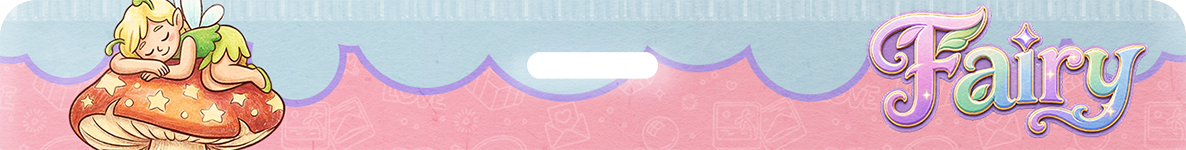
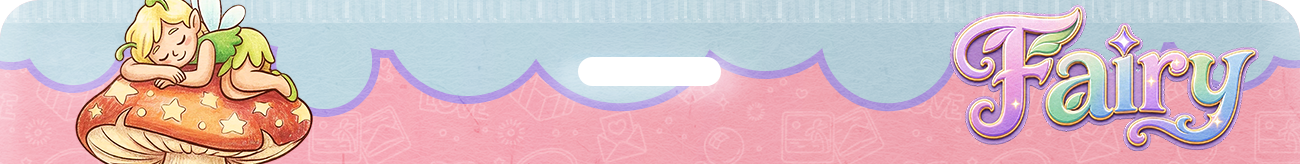
更新卡包包头

diff --git a/Documents/CURRENT_TASK.md b/Documents/CURRENT_TASK.md
@@ -1,49 +1,37 @@
 # 当前任务
 
-- 任务：修复多关卡默认描边断裂
+- 任务：批量替换 CardBag 游戏内包头
 - 状态：已完成
 - 更新时间：2026-08-08
 
 ## 用户意图
 
-- 修复当前组外边界与已完成组接触边在交汇处断裂的问题。
-- 问题存在于多个关卡，应修复通用烘焙算法并批量更新蒙版，而不是单独修改某一关。
+- 将 `美术切图/游戏内包头/PackTitleXXX.png` 复制到编号对应的 `Assets/UI/CardBags/CardBagXXX`。
+- 删除并替换原有 `BoardTitle.png`，新图片统一使用 `BoardTitle.png` 文件名。
 
 ## 工作记录
 
-- 截图对应 `CardBag008/Group02.png`，断点位于已完成组接触边与当前组最终外边界的交汇处。
-- 移除了交汇双方各自 `24px` 的双向裁剪，以及跨分组删除已认领描边像素的逻辑。
-- 当前组外边界继续使用距离和局部法线方向过滤；相邻组允许在真实交点共享少量外边界像素。
-- 增加交汇端点桥接：只沿最终外边界与已完成区域边界组成的走廊寻找真实路径，最大路径 `64px`，走廊容差 `8px`，不使用跨空白直线。
-- 通过当前 Unity 编辑器全量重烘焙 22 个 CardBag Prefab，生成 96 个有效分组；其中 87 张默认 `GroupNN.png` 发生变化。
-- `CardBag020` 和 `CardBag022` 仍因 Piece 尚未正式分组而跳过；`GroupNN_Level.png` 与 `GroupNN_Stickers.png` 未发生变化。
-- 上一项错误放置红色回弹修改保持原样，没有回退或覆盖。
+- 已按 `001` 至 `022` 的编号一一对应，覆盖 22 个 CardBag 目录中的 `BoardTitle.png`。
+- 保留每个目标文件原有的 `BoardTitle.png.meta`，确保 Unity Sprite GUID 和现有 Prefab 引用不变。
+- 源目录中的 `PackTitleXXX.png` 保持不变。
+- `CardBag001` 至 `CardBag006` 的原图与新图内容已经一致；Git 实际记录 `CardBag007` 至 `CardBag022` 的 16 张图片发生变化。
+- 未修改或覆盖工作区中已有的游戏逻辑、描边算法及烘焙资源变更。
 
 ## 修改文件
 
-- `Assets/Scripts/Editor/PuzzleOutlineBakerEditor.cs`
-- `Assets/Resources/Generated/PuzzleOutlines/CardBag002` 至 `CardBag019`、`CardBag021` 中发生变化的默认 `GroupNN.png`
-- `Documents/PROJECT_CONTEXT.md`
+- `Assets/UI/CardBags/CardBag007/BoardTitle.png` 至 `Assets/UI/CardBags/CardBag022/BoardTitle.png`
 - `Documents/CURRENT_TASK.md`
-
-## 决策
-
-- 不再通过预留空隙避免交点多画；运行时只显示当前阶段蒙版，因此相邻阶段共享交点像素是正确行为。
-- 保留法线方向过滤以阻止切线方向误判；桥接只修复存在真实边界路径的邻近端点。
-- 本次没有修改 SQLite 或 JSON 数据结构，不需要重置本地持久化文件。
 
 ## 验证
 
-- `CardBag008/Group02.png` 烘焙前为分离的两段线，烘焙后接触边与顶部外边界连续闭合。
-- 抽查 `CardBag008/Group03` 至 `Group06`，不存在真实边界路径的独立线段未被强行连接。
-- Unity 日志记录 `Puzzle outline baker: baked 96 group mask(s) from 22 card bag(s).`。
-- `dotnet build Assembly-CSharp-Editor.csproj --no-restore --nologo` 通过，0 警告、0 错误。
-- `git diff --check` 通过；尚需在 Unity Play Mode 中目视复查实际缩放和 Bilinear 过滤后的显示效果。
+- 22 个目标 `BoardTitle.png` 与对应源 `PackTitleXXX.png` 的 SHA-256 哈希全部一致。
+- 22 个 `BoardTitle.png.meta` 均存在且替换前后哈希一致。
+- Git 未报告任何 `BoardTitle.png.meta` 修改。
 
 ## 下一步
 
-1. 在 Unity 中复测 `CardBag008` 第 2 组，并随机抽查其他卡包的后续分组交汇处。
+1. 让 Unity 刷新资源，并在 CardBag Prefab 或游戏内抽查包头显示与裁切效果。
 
 ## 恢复提示
 
-多关卡默认描边断裂已从通用烘焙算法修复，96 个有效分组已全量重烘焙。下一步在 Play Mode 中复测 CardBag008 第 2 组并抽查其他卡包。
+22 个 CardBag 包头已按编号完成替换，Unity GUID 未变化。下一步只需在 Unity 中刷新并目视确认显示效果。
